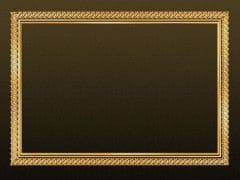
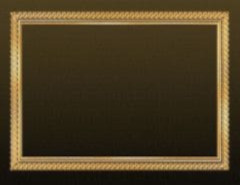
Add files via upload

diff --git a/index.html b/index.html
@@ -69,7 +69,7 @@
         <div class="layout-municipios--coluna__card">
           <picture>
             <source media="(max-width: 1100px)" srcset="./assests/images/imagens-index.html-200x140/boquira-200x140.jpg"/>
-            <img src="assests/images/imagens-index.html-400x300/boquira-400x300.jpg" alt="imagem de Boquira"/>
+            <img src="assests/images/imagens-index.html-400x300/boquira-240x180.jpg" alt="imagem de Boquira"/>
           </picture>
           <div class="nome-linkMunicipio">
             <h2>Boquira</h2>
@@ -81,7 +81,7 @@
           <picture>
             <source media="(max-width: 1100px)" srcset="./assests/images/imagens-index.html-200x140/botuporã-200x140.jpg"/>
             <img
-              src="assests/images/imagens-index.html-400x300/botupora-400x300.jpg"
+              src="assests/images/imagens-index.html-400x300/botupora-240x180.jpg"
               alt="imagem de Botuporã"
             />
           </picture>
@@ -95,7 +95,7 @@
           <picture>
             <source media="(max-width: 1100px)" srcset="./assests/images/imagens-index.html-200x140/caturama-200x140.jpeg"/>
             <img
-              src="assests/images/imagens-index.html-400x300/caturama-400x300.jpg"
+              src="assests/images/imagens-index.html-400x300/caturama-240x180.jpg"
               alt="imagem de Caturama"
             />
           </picture>
@@ -109,7 +109,7 @@
           <picture>
             <source media="(max-width: 1100px)" srcset="./assests/images/imagens-index.html-200x140/EricoCardoso-200x140.jpg"/>
             <img
-              src="./assests/images/imagens-index.html-400x300/ericoCardoso-400x300.jpg"
+              src="./assests/images/imagens-index.html-400x300/ericoCardoso-240x180.jpg"
               alt="imagem de Érico Cardoso"
             />
           </picture>
@@ -123,7 +123,7 @@
           <picture>
             <source media="(max-width: 1100px)" srcset="./assests/images/imagens-index.html-200x140/ibipitanga-200x140.jpeg"/>
             <img
-              src="assests/images/imagens-index.html-400x300/ibipitanga-400x300.jpg"
+              src="assests/images/imagens-index.html-400x300/ibipitanga-240x180.jpg"
               alt="imagem de Ibipitanga"
             />
           </picture>
@@ -137,7 +137,7 @@
           <picture>
             <source media="(max-width: 1100px)" srcset="./assests/images/imagens-index.html-200x140/macaubas-200x140.jpg"/>
             <img
-              src="assests/images/imagens-index.html-400x300/macaubas-400x300.jpg"
+              src="assests/images/imagens-index.html-400x300/macaubas-240x180.jpg"
               alt="Imagem da Igreja em Macaúbas"
             />
           </picture>
@@ -151,7 +151,7 @@
           <picture>
             <source media="(max-width: 1100px)" srcset="./assests/images/imagens-index.html-200x140/paramirim-200x140.jpg"/>
             <img
-              src="assests/images/imagens-index.html-400x300/paramirim-400x300.jpg"
+              src="assests/images/imagens-index.html-400x300/paramirim-240x180.jpg"
               alt="Imagem do Rio Paramirim"
             />
           </picture>
@@ -165,7 +165,7 @@
           <picture>
             <source media="(max-width: 1100px)" srcset="./assests/images/imagens-index.html-200x140/RioDoPires-200x140.jpeg"/>
             <img
-              src="assests/images/imagens-index.html-400x300/rioDoPires-400x300.jpg"
+              src="assests/images/imagens-index.html-400x300/rioDoPires-240x180.jpg"
               alt="Imagem de Rio do Pires"
             />
           </picture>

diff --git a/assests/css/paginaInicial/componentes.css b/assests/css/paginaInicial/componentes.css
@@ -152,8 +152,14 @@ nav div.nav-menu {
     box-shadow: 0 4px #40e0d0;
 }
 
+.layout-municipios--coluna__card picture{
+    background: url(../../images/moldura.jpg) no-repeat;
+    background-size: contain;
+
+}
+
 .layout-municipios--coluna__card img {
-    border: 20px solid transparent;
+    padding: 20px;
 }
 
 .layout-municipios--coluna__card div {

diff --git a/assests/css/paginaInicial/responsividade.css b/assests/css/paginaInicial/responsividade.css
@@ -37,6 +37,9 @@
         height: 310px;
     }
 
+    .layout-municipios--coluna__card picture{
+        background: url(../../images/imagens-index.html-200x140/moldura-240x180.jpg); 
+    }
 
     .layout-municipios--coluna__card div h2{
         font-size: 1.2em;
